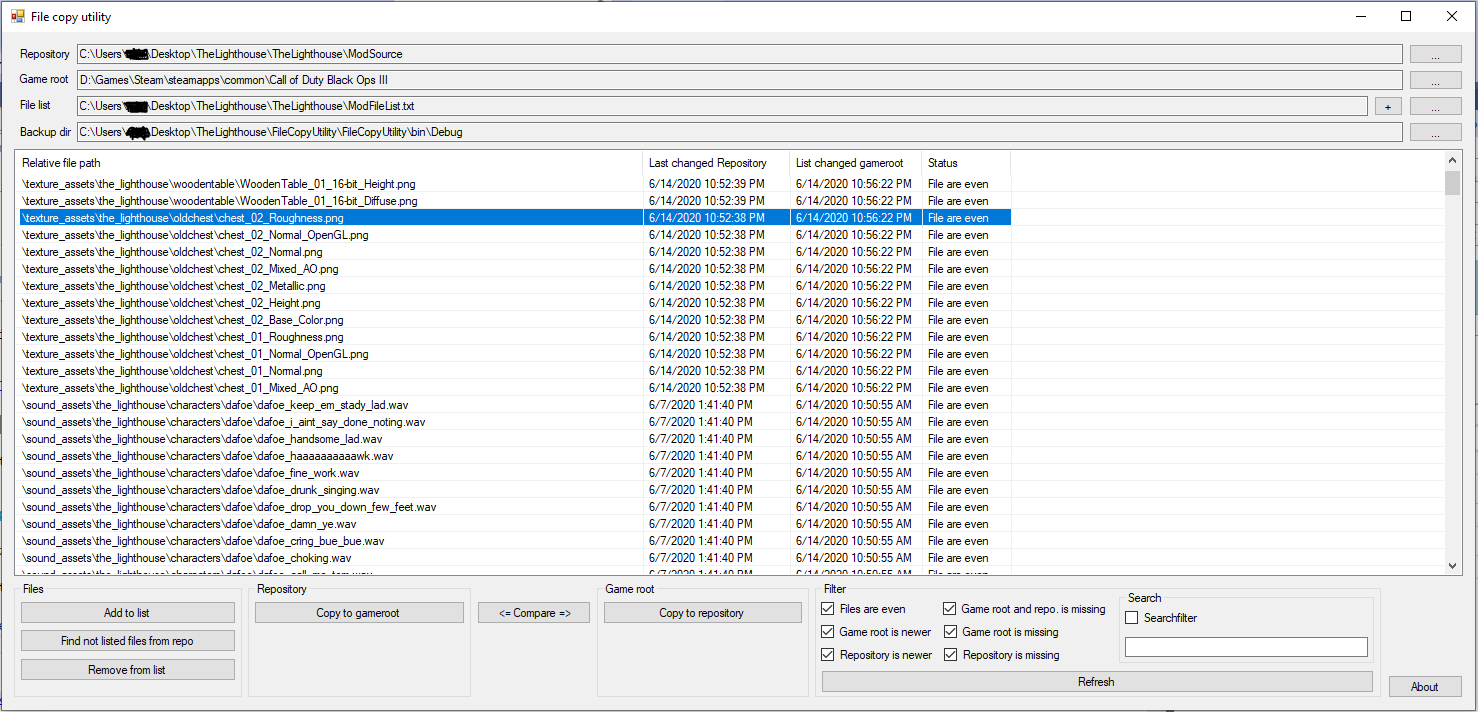
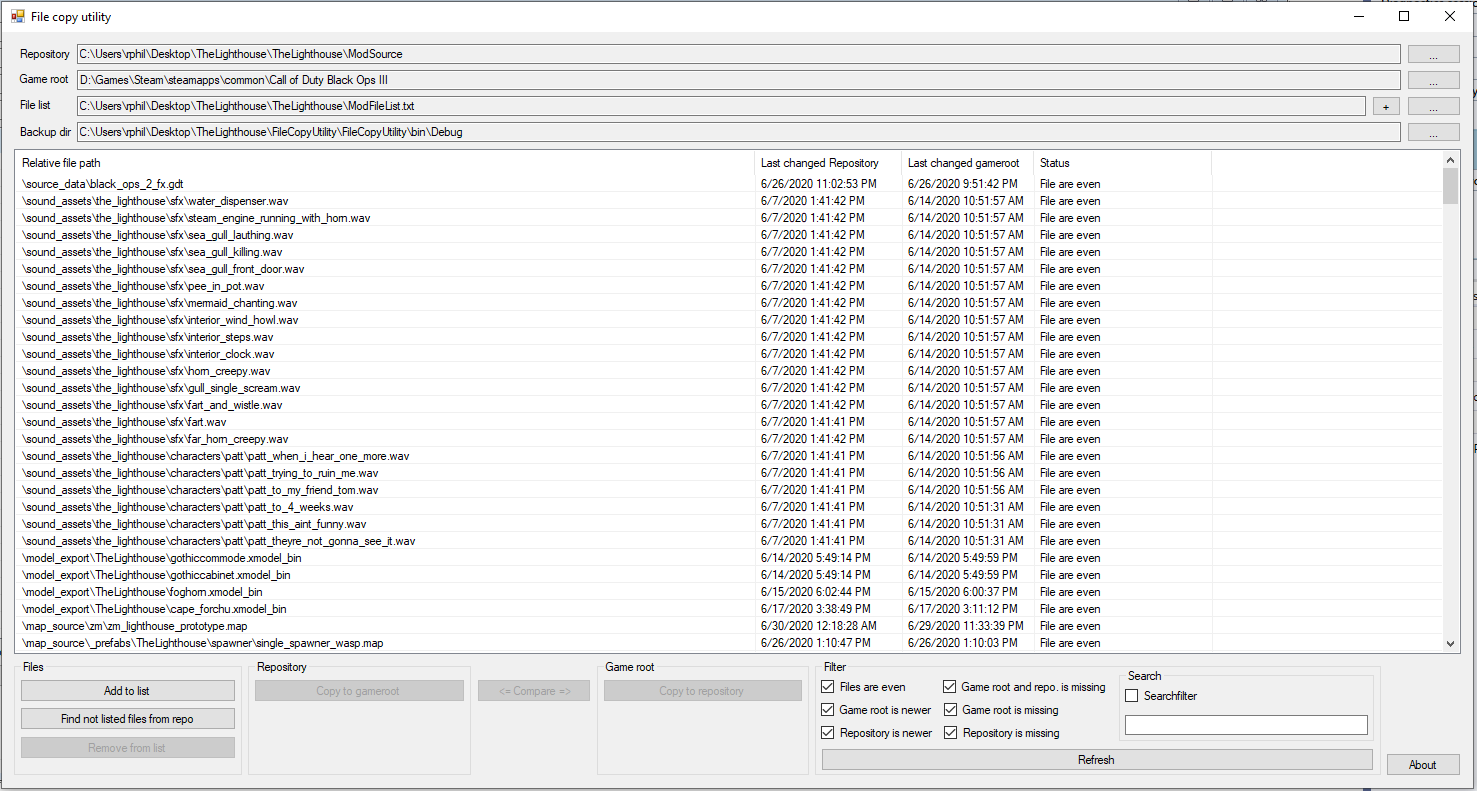
Fixed a typo

Changed region(s): [[0.0, 0.0, 1.0, 1.0], [0.0, 0.0, 0.0934, 0.0309]]

diff --git a/FileCopyUtility/FrmMain.Designer.cs b/FileCopyUtility/FrmMain.Designer.cs
@@ -107,7 +107,7 @@
             // 
             // colLastChangedGR
             // 
-            this.colLastChangedGR.Text = "List changed gameroot";
+            this.colLastChangedGR.Text = "Last changed gameroot";
             this.colLastChangedGR.Width = 132;
             // 
             // colStatus
